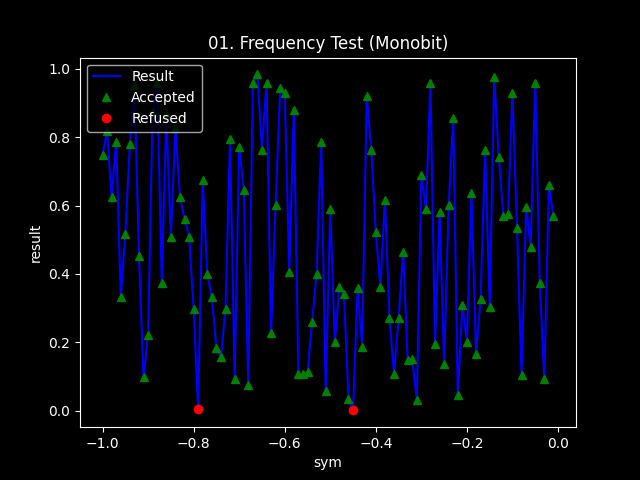
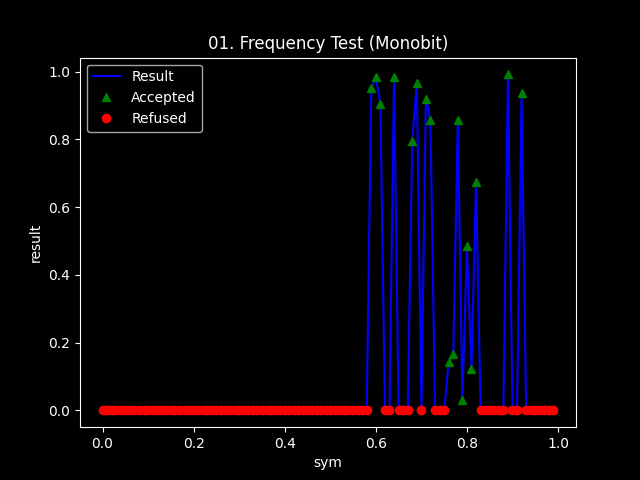
2.0

diff --git a/myAlg.py b/myAlg.py
@@ -59,11 +59,9 @@ def get_result_string(result):
 	else:
 		return 'Non-Random'
 
-def attractor(x, y, sym):
-	P = [mpf('3'), mpf('3'), mpf('4'), mpf('4'), sym]
-	x = (sin(P[0]*y) + P[2]*cos(P[0]* x)) * P[4]
-	y = (sin(P[1]*x) + P[3]*cos(P[1]* y)) * (1 - P[4])
-
+def attractor(x, y, p, sym):
+	x = sym*(cos(1-p[0]*pow(x, 2))+pow(exp(1),p[1]*pow(y, 2)))
+	y = ((1-sym)*sin(pow(x, 2)))
 	return x, y
 
 def threshhold(string):
@@ -78,13 +76,13 @@ def threshhold(string):
 
 	return biString
 
-def draw_map(steps, start, sym):
+def draw_map(steps, startPoint, p, sym):
 	n = steps
 	x_arr, y_arr = [], []
 	arr = ""
-	x_arr.append(start[0]), y_arr.append(start[1])
+	x_arr.append(startPoint[0]), y_arr.append(startPoint[1])
 	for i in range(steps):
-		x, y = attractor(x_arr[-1], y_arr[-1], sym)
+		x, y = attractor(x_arr[-1], y_arr[-1], p, sym)
 		if x<0:
 			x = -x
 		if y<0:
@@ -107,9 +105,11 @@ def draw_map(steps, start, sym):
 
 mp.prec = 53
 mp.dps = 15
+startPoint = [mpf('0.3'), mpf('0.3')]
+p = [mpf('1.4'), mpf('0.3')]
 symStep = mpf('0.01')
 step = 0
-symInterval = [mpf('-1'), mpf('0')]
+symInterval = [mpf('0'), mpf('1')]
 sym = symInterval[0]
 results = {'sym': []}
 for testType in _test_type:
@@ -118,7 +118,7 @@ for testType in _test_type:
 while sym <= symInterval[1]:
 
 	steps = 10000
-	draw_map(steps, [mpf('-1'), mpf('-1')], sym)
+	draw_map(steps, startPoint, p, sym)
 
 	_test_result = []
 	_test_string = []
